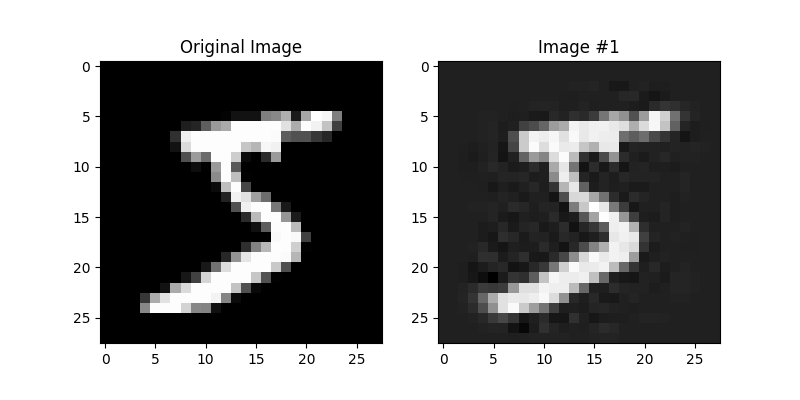
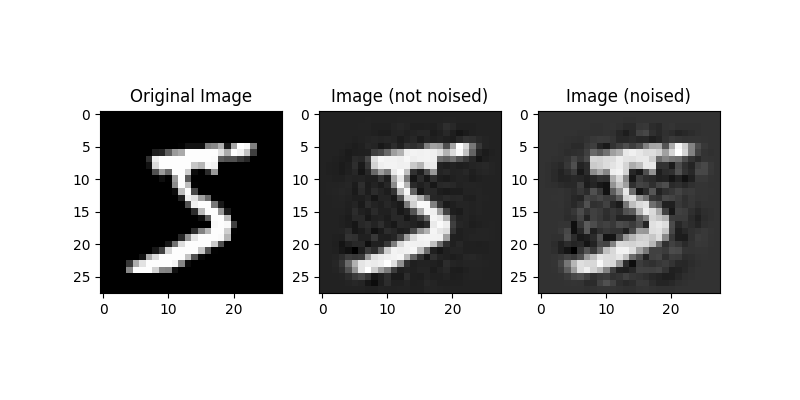
Add noise

diff --git a/manifold.py b/manifold.py
@@ -11,6 +11,10 @@ from sklearn.decomposition import PCA
 
 ### MNIST: 28x28 = 784 pixels ###
 
+# Hyperparameters
+epsilon = 0.1
+pca_dim = 300
+
 device    = torch.device('cuda' if torch.cuda.is_available() else 'cpu')
 
 transform  = transforms.ToTensor()
@@ -20,23 +24,33 @@ dataloader = DataLoader(dataset, batch_size=len(dataset), shuffle=False)
 images, _  = next(iter(dataloader))  
 images     = images.view(len(dataset), -1).numpy()  
 
-pca = PCA(n_components=300)
+pca = PCA(n_components=pca_dim)
 pca.fit(images)
 
 vec = pca.transform(images)
 
 sample_vec = vec[0]
 
+# ノイズ付与しない場合
 reconstructed_image = pca.inverse_transform(sample_vec.reshape(1, -1))
 reconstructed_image = reconstructed_image.reshape(28, 28)
 
+# ノイズ付与する場合
+noise = np.random.normal(0, 1, size=sample_vec.shape)
+sample_vec_aug = sample_vec + epsilon * noise
+reconstructed_image_aug = pca.inverse_transform(sample_vec_aug.reshape(1, -1))
+reconstructed_image_aug = reconstructed_image_aug.reshape(28, 28)
+
+
 original_image = images[0].reshape(28, 28)
 
-fig, ax = plt.subplots(1, 2, figsize=(8, 4))
+fig, ax = plt.subplots(1, 3, figsize=(8, 4))
 ax[0].imshow(original_image, cmap='gray')
 ax[0].set_title("Original Image")
 ax[1].imshow(reconstructed_image, cmap='gray')
-ax[1].set_title("Image #1")
+ax[1].set_title("Image (not noised)")
+ax[2].imshow(reconstructed_image_aug, cmap='gray')
+ax[2].set_title("Image (noised)")
 plt.savefig('./result/sample.png')
 
 
